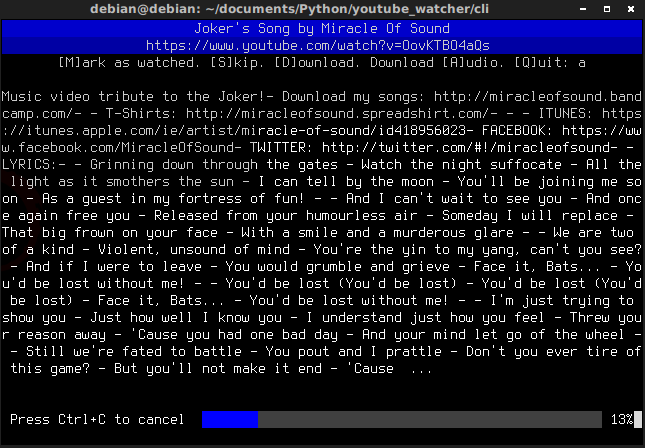
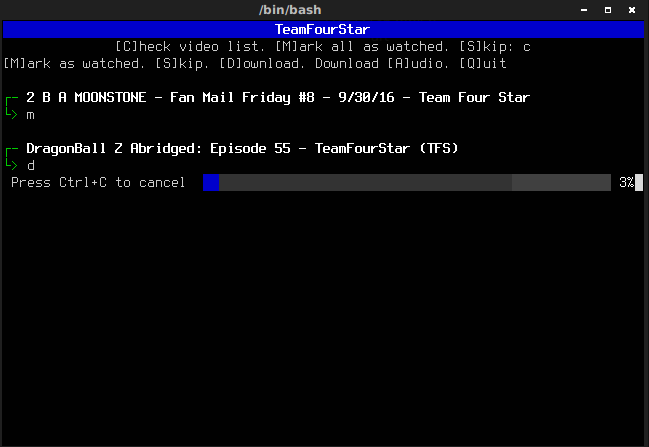
Simpler and cleaner interface

diff --git a/youtube_watcher/__init__.py b/youtube_watcher/__init__.py
@@ -20,7 +20,7 @@ from youtube_watcher.cprint import cprint
 
 
 FILE_DIR = '{}/.youtube_watcher'.format(os.getenv('HOME'))
-VERSION = '0.4.1'
+VERSION = '0.5.0'
 
 
 def make_request(url, data={}, headers={}, method='GET'):
@@ -218,22 +218,10 @@ def _update(*user, args=None):
             print('Failed')
             continue
         for index, item in enumerate(videos):
-            if video_in(item, data[user]['videos']) and not args.all:
+            if video_in(item, data[user]['videos']):
                 continue
             updated += 1
             data[user]['videos'].append(item)
-            perc = index/len(videos)*100
-            color_progress(perc, '', '', anti_fill='[_grey] [/_grey]',
-                           prefix=' Updating [bold]{}[/bold] '.format(user))
-            inf = get_vid_info(item, key)
-            if inf is None:
-                print('Failed')
-                break
-            stats = inf['items'][0]['statistics']
-            details = inf['items'][0]['contentDetails']
-            data[user]['videos'][index]['likecount'] = stats['likeCount']
-            data[user]['videos'][index]['dislikecount'] = stats['dislikeCount']
-            data[user]['videos'][index]['duration'] = details['duration']
         sys.stderr.write('\r{}'.format(' '*width))
         cprint('\r Updating [bold]{}[/bold] - [bold]{}[/bold] '
                 'new videos.'.format(user, updated), '', '', sys.stderr)
@@ -241,6 +229,11 @@ def _update(*user, args=None):
     with open('{}/data.json'.format(FILE_DIR), 'w') as f:
         f.write(json.dumps(data))
     return None
+
+def parse_seconds(seconds):
+    m, s = divmod(seconds, 60)
+    h, m = divmod(m, 60)
+    return '{:0>2}:{:0>2}:{:0>2}'.format(round(h), round(m), round(s))
 
 
 def get_vid_info(item, api_key):
@@ -252,8 +245,7 @@ def get_vid_info(item, api_key):
                                'contentDetails'.format(vid_id, api_key))
         except (ssl.SSLEOFError, urllib.error.URLError, socket.gaierror):
             continue
-        else:
-            return json.loads(req)
+        return json.loads(req)
     return None
 
 
@@ -314,8 +306,15 @@ def mark_all_watched(name):
 def check_list(videos, name, show_seen=False, reg=None, reverse=False):
     if reverse:
         videos.reverse()
+    with open('{}/settings.json'.format(FILE_DIR), 'r') as f:
+        settings = json.loads(f.read())
     width = shutil.get_terminal_size().columns
     height = shutil.get_terminal_size().lines
+    text = ('[M]ark as watched. [S]kip. [D]ownload. Download [A]udio. '
+            '[Q]uit')
+    print(text)
+    if reg is not None:
+        reg = re.compile(reg, re.I)
     for index, video in enumerate(videos):
         if video['seen'] and not show_seen:
             continue
@@ -323,47 +322,11 @@ def check_list(videos, name, show_seen=False, reg=None, reverse=False):
             match = re.match(reg, video['title'])
             if match is None:
                 continue
-        os.system('clear')
-        cprint('[_blue]{}[/_blue]'.format(
-               video['title'].center(width)))
-        vid_url = ('https://www.youtube.com/watch?'
-                   'v={}'.format(video['id']))
-        cprint('[_dblue]{}[/_dblue]\n\n'.format(
-               vid_url.center(width)))
-        likes = int(video['likecount'])
-        dislikes = int(video['dislikecount'])
-        total = likes + dislikes
-        color_progress(likes/total*100, '', '', '[_green] [/_green]',
-                       '[_red] [/_red]', 'Likes / Dislikes  ',
-                       '{}/{}\n'.format(likes, dislikes))
-        time = video['duration'].split('T')[1]
-        tdata = []
-        v = ''
-        for c in time:
-            try:
-                check = int(c)
-                v += c
-            except ValueError:
-                tdata.append(int(v))
-                v = ''
-        for i in range(3):
-            try:
-                a = tdata[i]
-            except IndexError:
-                tdata.insert(0, 0)
-        tstring = '{:0>2}:{:0>2}:{:0>2}'.format(*tdata)
-        print('Duration: {}\n'.format(tstring))
-
-
-        pos = 2+math.ceil(len(video['title'])/width)
-        print(video['desc'][:int((height-10-(pos-3))*width)].replace('\n', '- '),
-              '...')
-
-        print('\033[{};1H'.format(pos), end='')
-
-        text = ('[M]ark as watched. [S]kip. [D]ownload. Download [A]udio. '
-                '[Q]uit: ')
-        key = input('{}{}'.format(' '*int(width/2-(len(text)/2)), text))
+        
+        title = video['title']
+        cprint('\n[green]┌-[/green] [bold]{}[/bold]'.format(title))
+        cprint('[green]└> [/green]', suffix='')
+        key = input('')
         key = key.lower()
         if key == 'q':
             break
@@ -379,14 +342,17 @@ def check_list(videos, name, show_seen=False, reg=None, reverse=False):
         while not downloaded:
             if key == 'd':
                 params = 'youtube-dl {}'.format(url)
+                if 'name' in settings:
+                    params += ' -o {}'.format(settings['name'])
                 proc = subprocess.Popen(params.split(' '),
                                         stdout=subprocess.PIPE,
                                         stderr=subprocess.STDOUT)
             if key == 'a':
                 params = ('youtube-dl --extract-audio '
                           '--audio-format mp3 {}'.format(url))
-                proc = subprocess.Popen(['youtube-dl', '--extract-audio',
-                                         '--audio-format', 'mp3', url],
+                if 'name' in settings:
+                    params += ' -o {}'.format(settings['name'])
+                proc = subprocess.Popen(params.split(' '),
                                          stdout=subprocess.PIPE,
                                          stderr=subprocess.STDOUT)
             if proc is not None:
@@ -431,12 +397,11 @@ def handle_download(proc, video, try_again=False):
     size = shutil.get_terminal_size()
     width = size.columns
     height = size.lines
-    move = '\033[{};1H'.format(height)
     if try_again:
         text = 'Trying again.'
     else:
         text = 'Starting download.'
-    sys.stderr.write('\r{}{} Press Ctrl+C to cancel.'.format(move, text))
+    sys.stderr.write('\r{} Press Ctrl+C to cancel.'.format(text))
     tmp = b''
     downloaded = False
     while proc.poll() is None:
@@ -537,6 +502,18 @@ def _users(*_, args=None):
     return None
 
 
+def _setting(setting, *value, args=None):
+    value = ' '.join(value)
+    with open('{}/settings.json'.format(FILE_DIR), 'r') as f:
+        settings = json.loads(f.read())
+
+    settings[setting] = value
+
+    with open('{}/settings.json'.format(FILE_DIR), 'w') as f:
+        f.write(json.dumps(settings))
+    return None
+
+
 def main():
     # Create files / dir
     if not os.path.exists(FILE_DIR):
@@ -544,6 +521,10 @@ def main():
 
     if not os.path.exists('{}/data.json'.format(FILE_DIR)):
         with open('{}/data.json'.format(FILE_DIR), 'w') as f:
+            f.write('{}')
+
+    if not os.path.exists('{}/settings.json'.format(FILE_DIR)):
+        with open('{}/settings.json'.format(FILE_DIR), 'w') as f:
             f.write('{}')
 
 
@@ -559,7 +540,7 @@ def main():
                         action='store_true')
     parser.add_argument('-a', '--all', help='Updates all videos '
                         'when you update', action='store_true', default=False)
-    parser.add_argument('--version', action='version', version=VERSION)
+    parser.add_argument('-v', '--version', action='version', version=VERSION)
     args = parser.parse_args()
     command = '_{}'.format(args.command[0])
     params = args.command[1:]

diff --git a/setup.py b/setup.py
@@ -5,7 +5,7 @@ from setuptools import setup
 
 
 setup(name='youtube_watcher',
-        version='0.4.1',
+        version='0.5.0',
         description='A simple program to list new YouTube videos and download them',
         author='Steven J. Core',
         url='https://github.com/Sjc1000/youtube_watcher',
